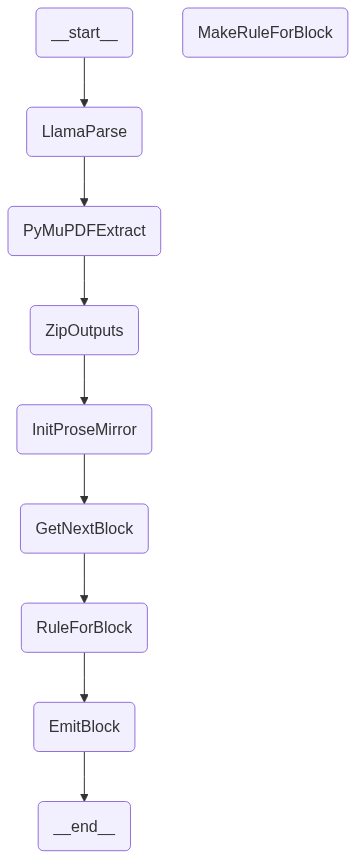
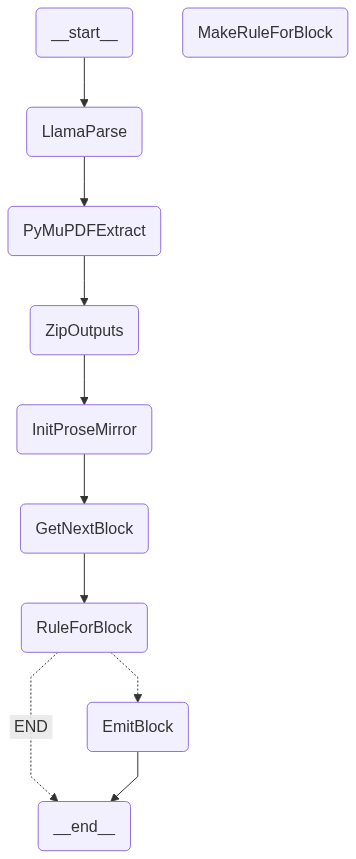
start generating prose mirror nodes

diff --git a/zip_llama_pymupdf.py b/zip_llama_pymupdf.py
@@ -1,6 +1,6 @@
 from difflib import SequenceMatcher
 
-from llama_cloud_services.parse.types import BBox, Page, PageItem
+from llama_cloud_services.parse.types import Page, PageItem
 from pydantic import BaseModel
 
 from extract_structured_pdf import PageResult, PyMuPdfItem, TextItem
@@ -10,6 +10,7 @@ class UnifiedBlock(BaseModel):
     match_method: str
     llama_item: PageItem
     fitz_items: list[PyMuPdfItem]
+    conversion_rule: str = None
 
 
 class ZippedOutputsPage(BaseModel):
@@ -21,21 +22,59 @@ class ZippedOutputsPage(BaseModel):
     unified_blocks: list[UnifiedBlock] = None
 
 
-def span_intersects_block(
-    span: tuple[float, float, float, float], block_bbox: BBox, margin: float = 5.0
-) -> bool:
-    x0, y0, x1, y1 = span
-    bx0 = block_bbox.x - margin
-    by0 = block_bbox.y - margin
-    bx1 = block_bbox.x + block_bbox.w + margin
-    by1 = block_bbox.y + block_bbox.h + margin
-    return not (x1 < bx0 or x0 > bx1 or y1 < by0 or y0 > by1)
-
-
 def fuzzy_match(a: str, b: str, threshold: float = 0.85) -> bool:
     a_norm = a.lower().strip()
     b_norm = b.lower().strip()
     return SequenceMatcher(None, a_norm, b_norm).ratio() > threshold
+
+
+def find_text_match(
+    llama_text: str, pymupdf_items: list[PyMuPdfItem], used_indices: set[int]
+) -> list[PyMuPdfItem]:
+    """
+    Find the first sequence of PyMuPDF text items that match the llama text.
+    Returns the matching items and marks their indices as used.
+    """
+    llama_text_norm = llama_text.lower().strip()
+
+    # Try to find exact matches first
+    for i, item in enumerate(pymupdf_items):
+        if i in used_indices or not isinstance(item, TextItem):
+            continue
+
+        # Check if this single item matches
+        if fuzzy_match(item.text, llama_text):
+            used_indices.add(i)
+            return [item]
+
+        # Check if we can build a match by combining consecutive text items
+        combined_text = item.text
+        matched_items = [item]
+        current_indices = {i}
+
+        # Try to combine with subsequent text items
+        for j in range(i + 1, len(pymupdf_items)):
+            if j in used_indices or not isinstance(pymupdf_items[j], TextItem):
+                break
+
+            # Add space between text items
+            combined_text += " " + pymupdf_items[j].text
+
+            if fuzzy_match(combined_text, llama_text):
+                # Found a match! Mark all items as used
+                used_indices.update(current_indices)
+                used_indices.add(j)
+                matched_items.append(pymupdf_items[j])
+                return matched_items
+            elif len(combined_text) > len(llama_text_norm) * 1.5:
+                # Stop if we've exceeded reasonable length
+                break
+            else:
+                # Continue building the combination
+                current_indices.add(j)
+                matched_items.append(pymupdf_items[j])
+
+    return []
 
 
 def match_blocks(
@@ -43,40 +82,22 @@ def match_blocks(
 ) -> list[UnifiedBlock]:
     """
     Given the output of a llama parse and a pymupdf,
-    match up the individual items into a single list using bounding
-    boxes and fuzzy matching.
+    match up the individual items into a single list using text-based matching.
+    Items are processed in order and each PyMuPDF item is only used once.
     """
     unified = []
+    used_pymupdf_indices = set()
 
     for llama_item in llama_parse_page.items:
-        fitz_matches = [
-            fitz_item
-            for fitz_item in pymupdf_page.content
-            if span_intersects_block(fitz_item.bbox, llama_item.bBox)
-        ]
+        # Find matching PyMuPDF text items
+        fitz_matches = find_text_match(
+            llama_item.value, pymupdf_page.content, used_pymupdf_indices
+        )
 
         if fitz_matches:
             unified.append(
                 UnifiedBlock(
-                    match_method="bbox", llama_item=llama_item, fitz_items=fitz_matches
-                )
-            )
-            continue
-
-        # If we didn't have overlap by bbox, check by text content
-        fitz_fuzzy_matches = [
-            fitz_item
-            for fitz_item in pymupdf_page.content
-            if isinstance(fitz_item, TextItem)
-            and fuzzy_match(fitz_item.text, llama_item.value)
-        ]
-
-        if fitz_fuzzy_matches:
-            unified.append(
-                UnifiedBlock(
-                    match_method="fuzzy",
-                    llama_item=llama_item,
-                    fitz_items=fitz_fuzzy_matches,
+                    match_method="text", llama_item=llama_item, fitz_items=fitz_matches
                 )
             )
         else:

diff --git a/pipeline.py b/pipeline.py
@@ -8,8 +8,9 @@ from pydantic import BaseModel
 from extract_structured_pdf import PyMuPDFOutput, extract
 from parse_with_llama_parse import LlamaParseOutput, parse
 from pipeline_state_helpers import draw_pipeline, resume_from_latest, save_output
+from rule_registry import ConversionRuleRegistry
 from tiptap_models import DocNode
-from zip_llama_pymupdf import ZippedOutputsPage, match_blocks
+from zip_llama_pymupdf import UnifiedBlock, ZippedOutputsPage, match_blocks
 
 
 class PipelineState(BaseModel):
@@ -20,6 +21,8 @@ class PipelineState(BaseModel):
     zipped_page: ZippedOutputsPage = None
 
     prose_mirror_doc: DocNode = None
+
+    current_block: UnifiedBlock = None
 
 
 def is_node_completed(state: PipelineState, step: str) -> bool:
@@ -78,11 +81,54 @@ def init_prose_mirror_doc(state: PipelineState):
 
 
 def get_next_block(state: PipelineState):
-    pass
+    return {"current_block": state.zipped_page.unified_blocks[0]}
 
 
 def get_rule_for_block(state: PipelineState):
-    pass
+    """
+    Check if any conversion rules are applicable to the current block.
+    If a rule matches, set the conversion_rule field to the rule's ID.
+    """
+    if state.current_block.conversion_rule is not None:
+        # Rule already set, no need to check again
+        return {}
+
+    # Get all available conversion rules
+    rules = ConversionRuleRegistry.get_all_rules()
+
+    # Test each rule against the current block
+    for rule in rules:
+        # For now, we'll test against the first PyMuPDF item if available
+        # In the future, we might want to test against all items or use a different strategy
+        pymupdf_input = (
+            state.current_block.fitz_items[0]
+            if state.current_block.fitz_items
+            else None
+        )
+
+        if pymupdf_input and rule.match_condition(
+            state.current_block.llama_item, pymupdf_input
+        ):
+            # Found a matching rule
+            return {
+                "current_block": state.current_block.model_copy(
+                    update={"conversion_rule": rule.id}
+                )
+            }
+
+    # No matching rule found
+    return {}
+
+
+def should_emit_block(state: PipelineState) -> str:
+    """
+    Conditional edge function to determine next step after rule checking.
+    Returns 'EmitBlock' if a conversion rule was found, 'END' otherwise.
+    """
+    if state.current_block.conversion_rule is not None:
+        return "EmitBlock"
+    else:
+        return "END"
 
 
 def make_rule_for_block(state: PipelineState):
@@ -90,7 +136,37 @@ def make_rule_for_block(state: PipelineState):
 
 
 def emit_block(state: PipelineState):
-    pass
+    """
+    Construct a node using the conversion rule and add it to the prose mirror document.
+    """
+    # Get the conversion rule by ID
+    rule_class = ConversionRuleRegistry._rules.get(state.current_block.conversion_rule)
+    if not rule_class:
+        raise ValueError(
+            f"Conversion rule '{state.current_block.conversion_rule}' not found"
+        )
+
+    # Create an instance of the rule
+    rule = rule_class()
+
+    # Get the PyMuPDF input (use first item if available)
+    pymupdf_input = (
+        state.current_block.fitz_items[0] if state.current_block.fitz_items else None
+    )
+
+    # Construct the node using the rule
+    constructed_node = rule.construct_node(
+        state.current_block.llama_item, pymupdf_input
+    )
+
+    # Add the constructed node to the prose mirror document content
+    updated_content = state.prose_mirror_doc.content + [constructed_node]
+
+    return {
+        "prose_mirror_doc": state.prose_mirror_doc.model_copy(
+            update={"content": updated_content}
+        )
+    }
 
 
 def build_pipeline():
@@ -109,14 +185,16 @@ def build_pipeline():
     builder.add_edge("ZipOutputs", "InitProseMirror")
 
     # Now we want to parse the contents
-    builder.add_node("GetNextBlock", get_next_block)
+    builder.add_node("GetNextBlock", RunnableLambda(get_next_block))
     builder.add_node("RuleForBlock", get_rule_for_block)
     builder.add_node("MakeRuleForBlock", make_rule_for_block)
     builder.add_node("EmitBlock", emit_block)
 
     builder.add_edge("InitProseMirror", "GetNextBlock")
     builder.add_edge("GetNextBlock", "RuleForBlock")
-    builder.add_edge("RuleForBlock", "EmitBlock")
+    builder.add_conditional_edges(
+        "RuleForBlock", should_emit_block, {"EmitBlock": "EmitBlock", "END": END}
+    )
     builder.add_edge("EmitBlock", END)
 
     return builder.compile()

diff --git a/rule_registry.py b/rule_registry.py
@@ -64,27 +64,26 @@ class ConversionRule(BaseModel):
             field_value = getattr(input_obj, condition.field, None)
 
             # Apply the operator
+            condition_matches = False
             if condition.operator == "==":
-                if field_value == condition.value:
-                    return True
+                condition_matches = field_value == condition.value
             elif condition.operator == ">":
-                if field_value > condition.value:
-                    return True
+                condition_matches = field_value > condition.value
             elif condition.operator == "<":
-                if field_value < condition.value:
-                    return True
+                condition_matches = field_value < condition.value
             elif condition.operator == ">=":
-                if field_value >= condition.value:
-                    return True
+                condition_matches = field_value >= condition.value
             elif condition.operator == "<=":
-                if field_value <= condition.value:
-                    return True
+                condition_matches = field_value <= condition.value
             elif condition.operator == "in":
-                if field_value in condition.value:
-                    return True
+                condition_matches = field_value in condition.value
 
-        # If no conditions match, return False
-        return False
+            # If any condition fails, the rule doesn't match
+            if not condition_matches:
+                return False
+
+        # All conditions matched
+        return True
 
     def construct_node(llamaparse_input: PageItem, pymupdf_input: Item) -> TiptapNode:
         pass
